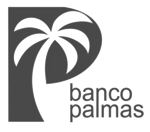
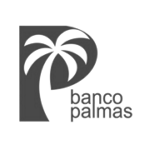
Supporters s images resized. Supporters s images classname changed. Removed hover menu from header items.

diff --git a/src/sections/Collage/index.tsx b/src/sections/Collage/index.tsx
@@ -22,7 +22,7 @@ export const Collage: React.FunctionComponent<ICollage> = ({ images, title, subt
                 <div className="flex justify-center flex-wrap items-center">
                     {images.map((image, key) => (
                         <div key={key} className="sm:w-1/2 sm:p-6 p-8 text-center">
-                            <Image className="h-12" src={image.src} alt={image.alt} size="sm" />
+                            <Image className="h-40" src={image.src} alt={image.alt} size="sm" />
                         </div>
                     ))}
                 </div>
